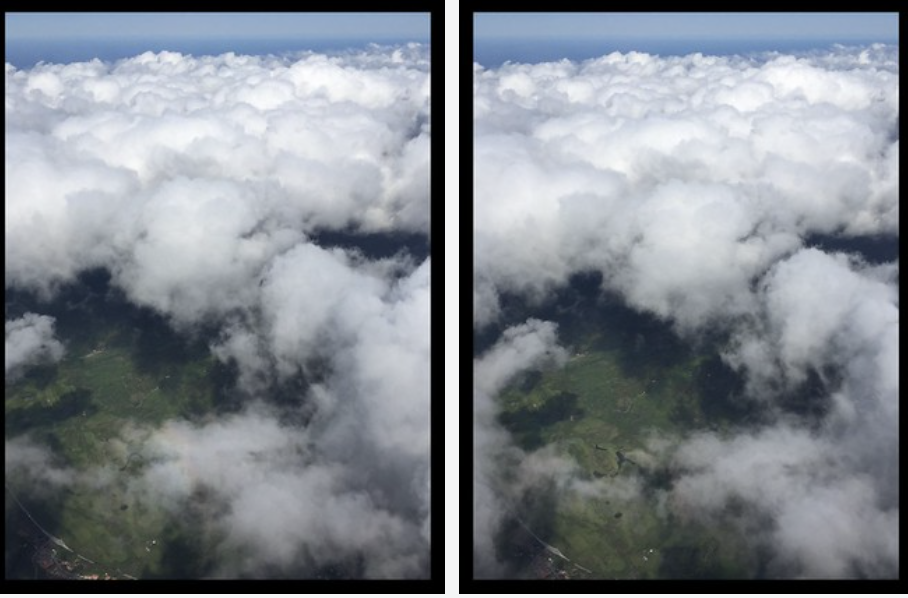
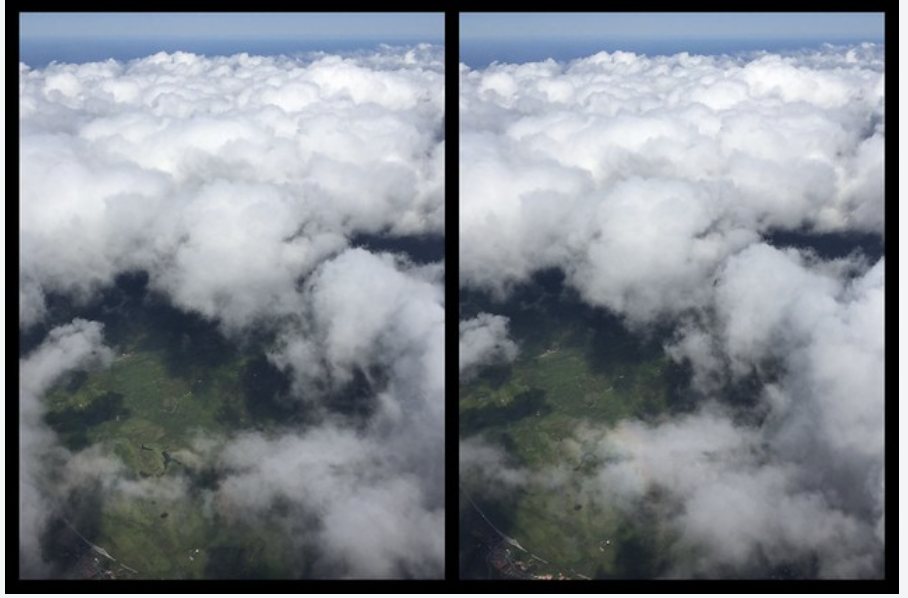
Preserve wiggle aspect ratio and correct pair 02

diff --git a/app/parallax.css b/app/parallax.css
@@ -6,11 +6,11 @@
 @media (prefers-reduced-motion: reduce) {.scroll-depth .depth-cloud-far,.scroll-depth .depth-cloud-mid,.scroll-depth .depth-cloud-near { transform: none; }}
 
 .stereo-frame { position: relative; overflow: hidden; }
-.wiggle-view { position: absolute; inset: clamp(.4rem,1vw,.8rem); display: none; background-repeat: no-repeat; background-size: 200% 100%; background-position: left center; }
+.wiggle-view { position: absolute; top: clamp(.4rem,1vw,.8rem); bottom: clamp(.4rem,1vw,.8rem); left: 25%; width: 50%; display: none; background-repeat: no-repeat; background-size: 200% 100%; background-position: left center; }
 .wiggle-view.show-right { background-position: right center; }
 .stereo-frame.is-wiggling > img { visibility: hidden; }
 .stereo-frame.is-wiggling .wiggle-view { display: block; }
 .wiggle-button { margin-top: .85rem; padding: .55rem .9rem; border: 1px solid var(--line); border-radius: 999px; color: var(--ink); background: transparent; font: 650 .78rem var(--font-sans),sans-serif; cursor: pointer; }
 .wiggle-button:hover,.wiggle-button.is-active { color: white; background: var(--ink); }
 .hero-stereo > .stereo-frame { padding: 0; }
-.hero-stereo > .stereo-frame .wiggle-view { inset: clamp(7px,1vw,13px); }
+.hero-stereo > .stereo-frame .wiggle-view { top: clamp(7px,1vw,13px); bottom: clamp(7px,1vw,13px); left: 25%; width: 50%; }

diff --git a/github-pages/parallax.css b/github-pages/parallax.css
@@ -6,11 +6,11 @@
 @media (prefers-reduced-motion: reduce) {.scroll-depth .depth-cloud-far,.scroll-depth .depth-cloud-mid,.scroll-depth .depth-cloud-near { transform: none; }}
 
 .stereo-frame { position: relative; overflow: hidden; }
-.wiggle-view { position: absolute; inset: clamp(.4rem,1vw,.8rem); display: none; background-repeat: no-repeat; background-size: 200% 100%; background-position: left center; }
+.wiggle-view { position: absolute; top: clamp(.4rem,1vw,.8rem); bottom: clamp(.4rem,1vw,.8rem); left: 25%; width: 50%; display: none; background-repeat: no-repeat; background-size: 200% 100%; background-position: left center; }
 .wiggle-view.show-right { background-position: right center; }
 .stereo-frame.is-wiggling > img { visibility: hidden; }
 .stereo-frame.is-wiggling .wiggle-view { display: block; }
 .wiggle-button { margin-top: .85rem; padding: .55rem .9rem; border: 1px solid var(--line); border-radius: 999px; color: var(--ink); background: transparent; font: 650 .78rem var(--font-sans),sans-serif; cursor: pointer; }
 .wiggle-button:hover,.wiggle-button.is-active { color: white; background: var(--ink); }
 .hero-stereo > .stereo-frame { padding: 0; }
-.hero-stereo > .stereo-frame .wiggle-view { inset: clamp(7px,1vw,13px); }
+.hero-stereo > .stereo-frame .wiggle-view { top: clamp(7px,1vw,13px); bottom: clamp(7px,1vw,13px); left: 25%; width: 50%; }
